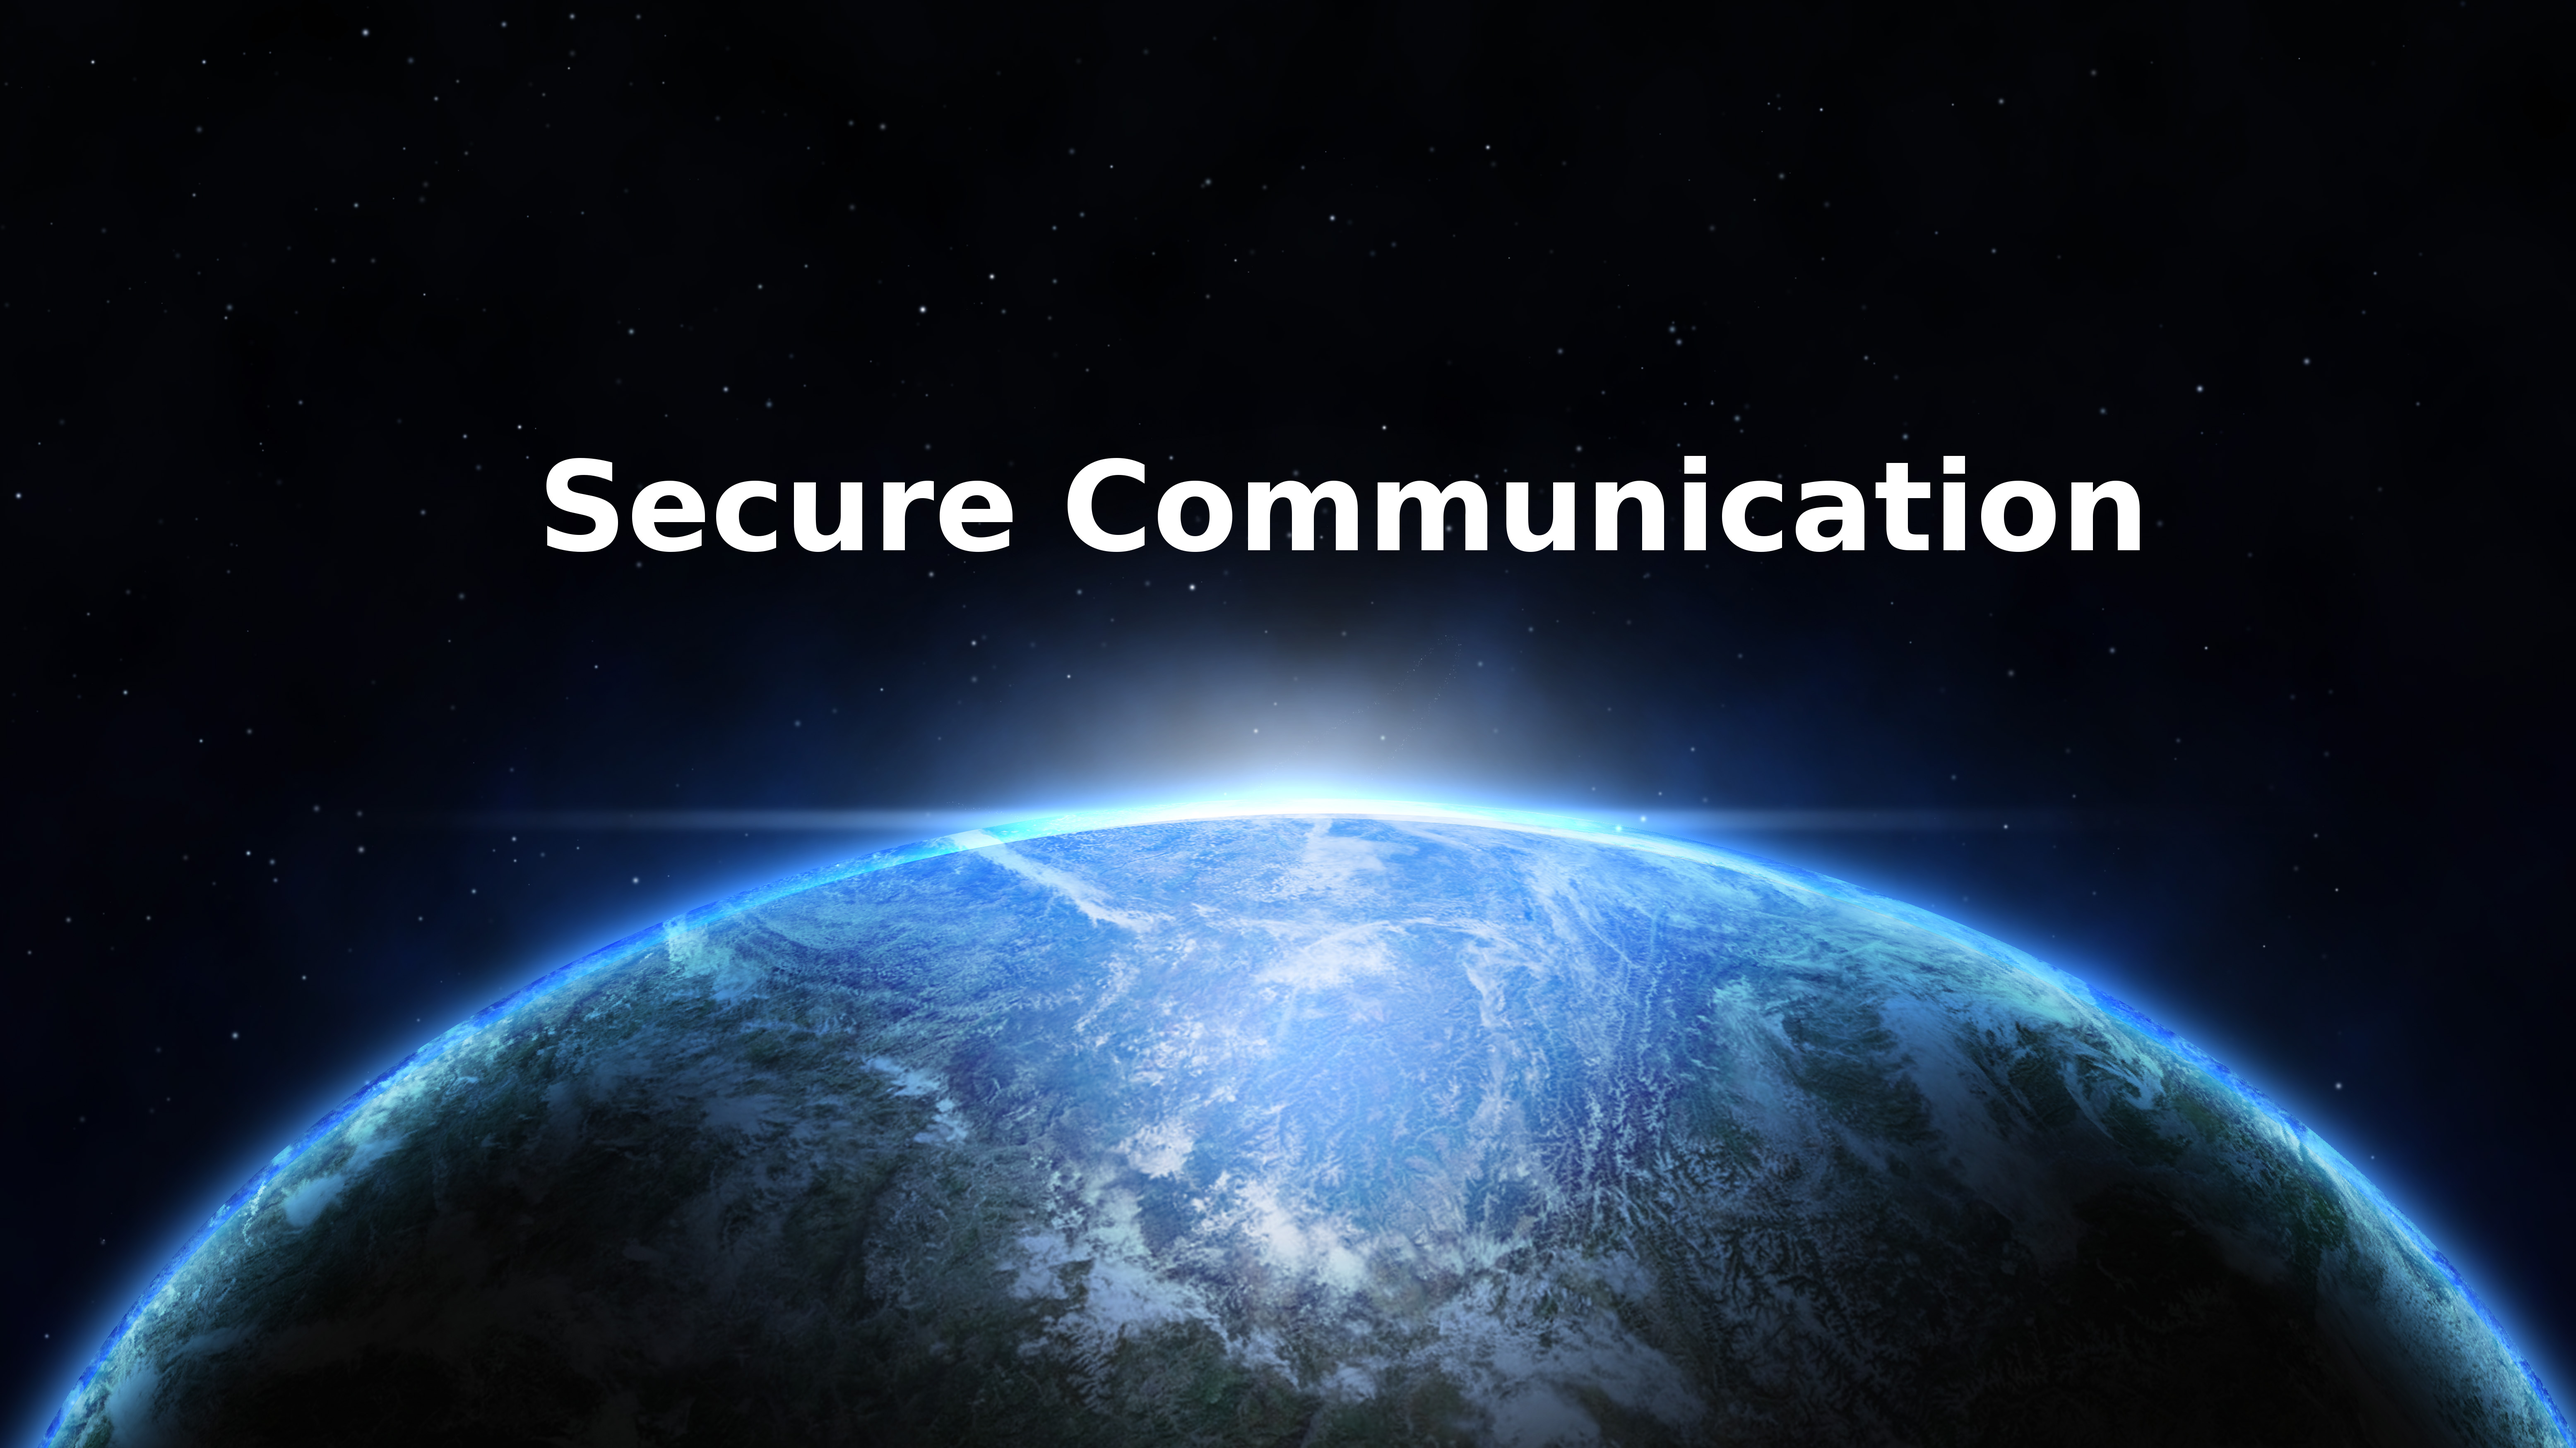
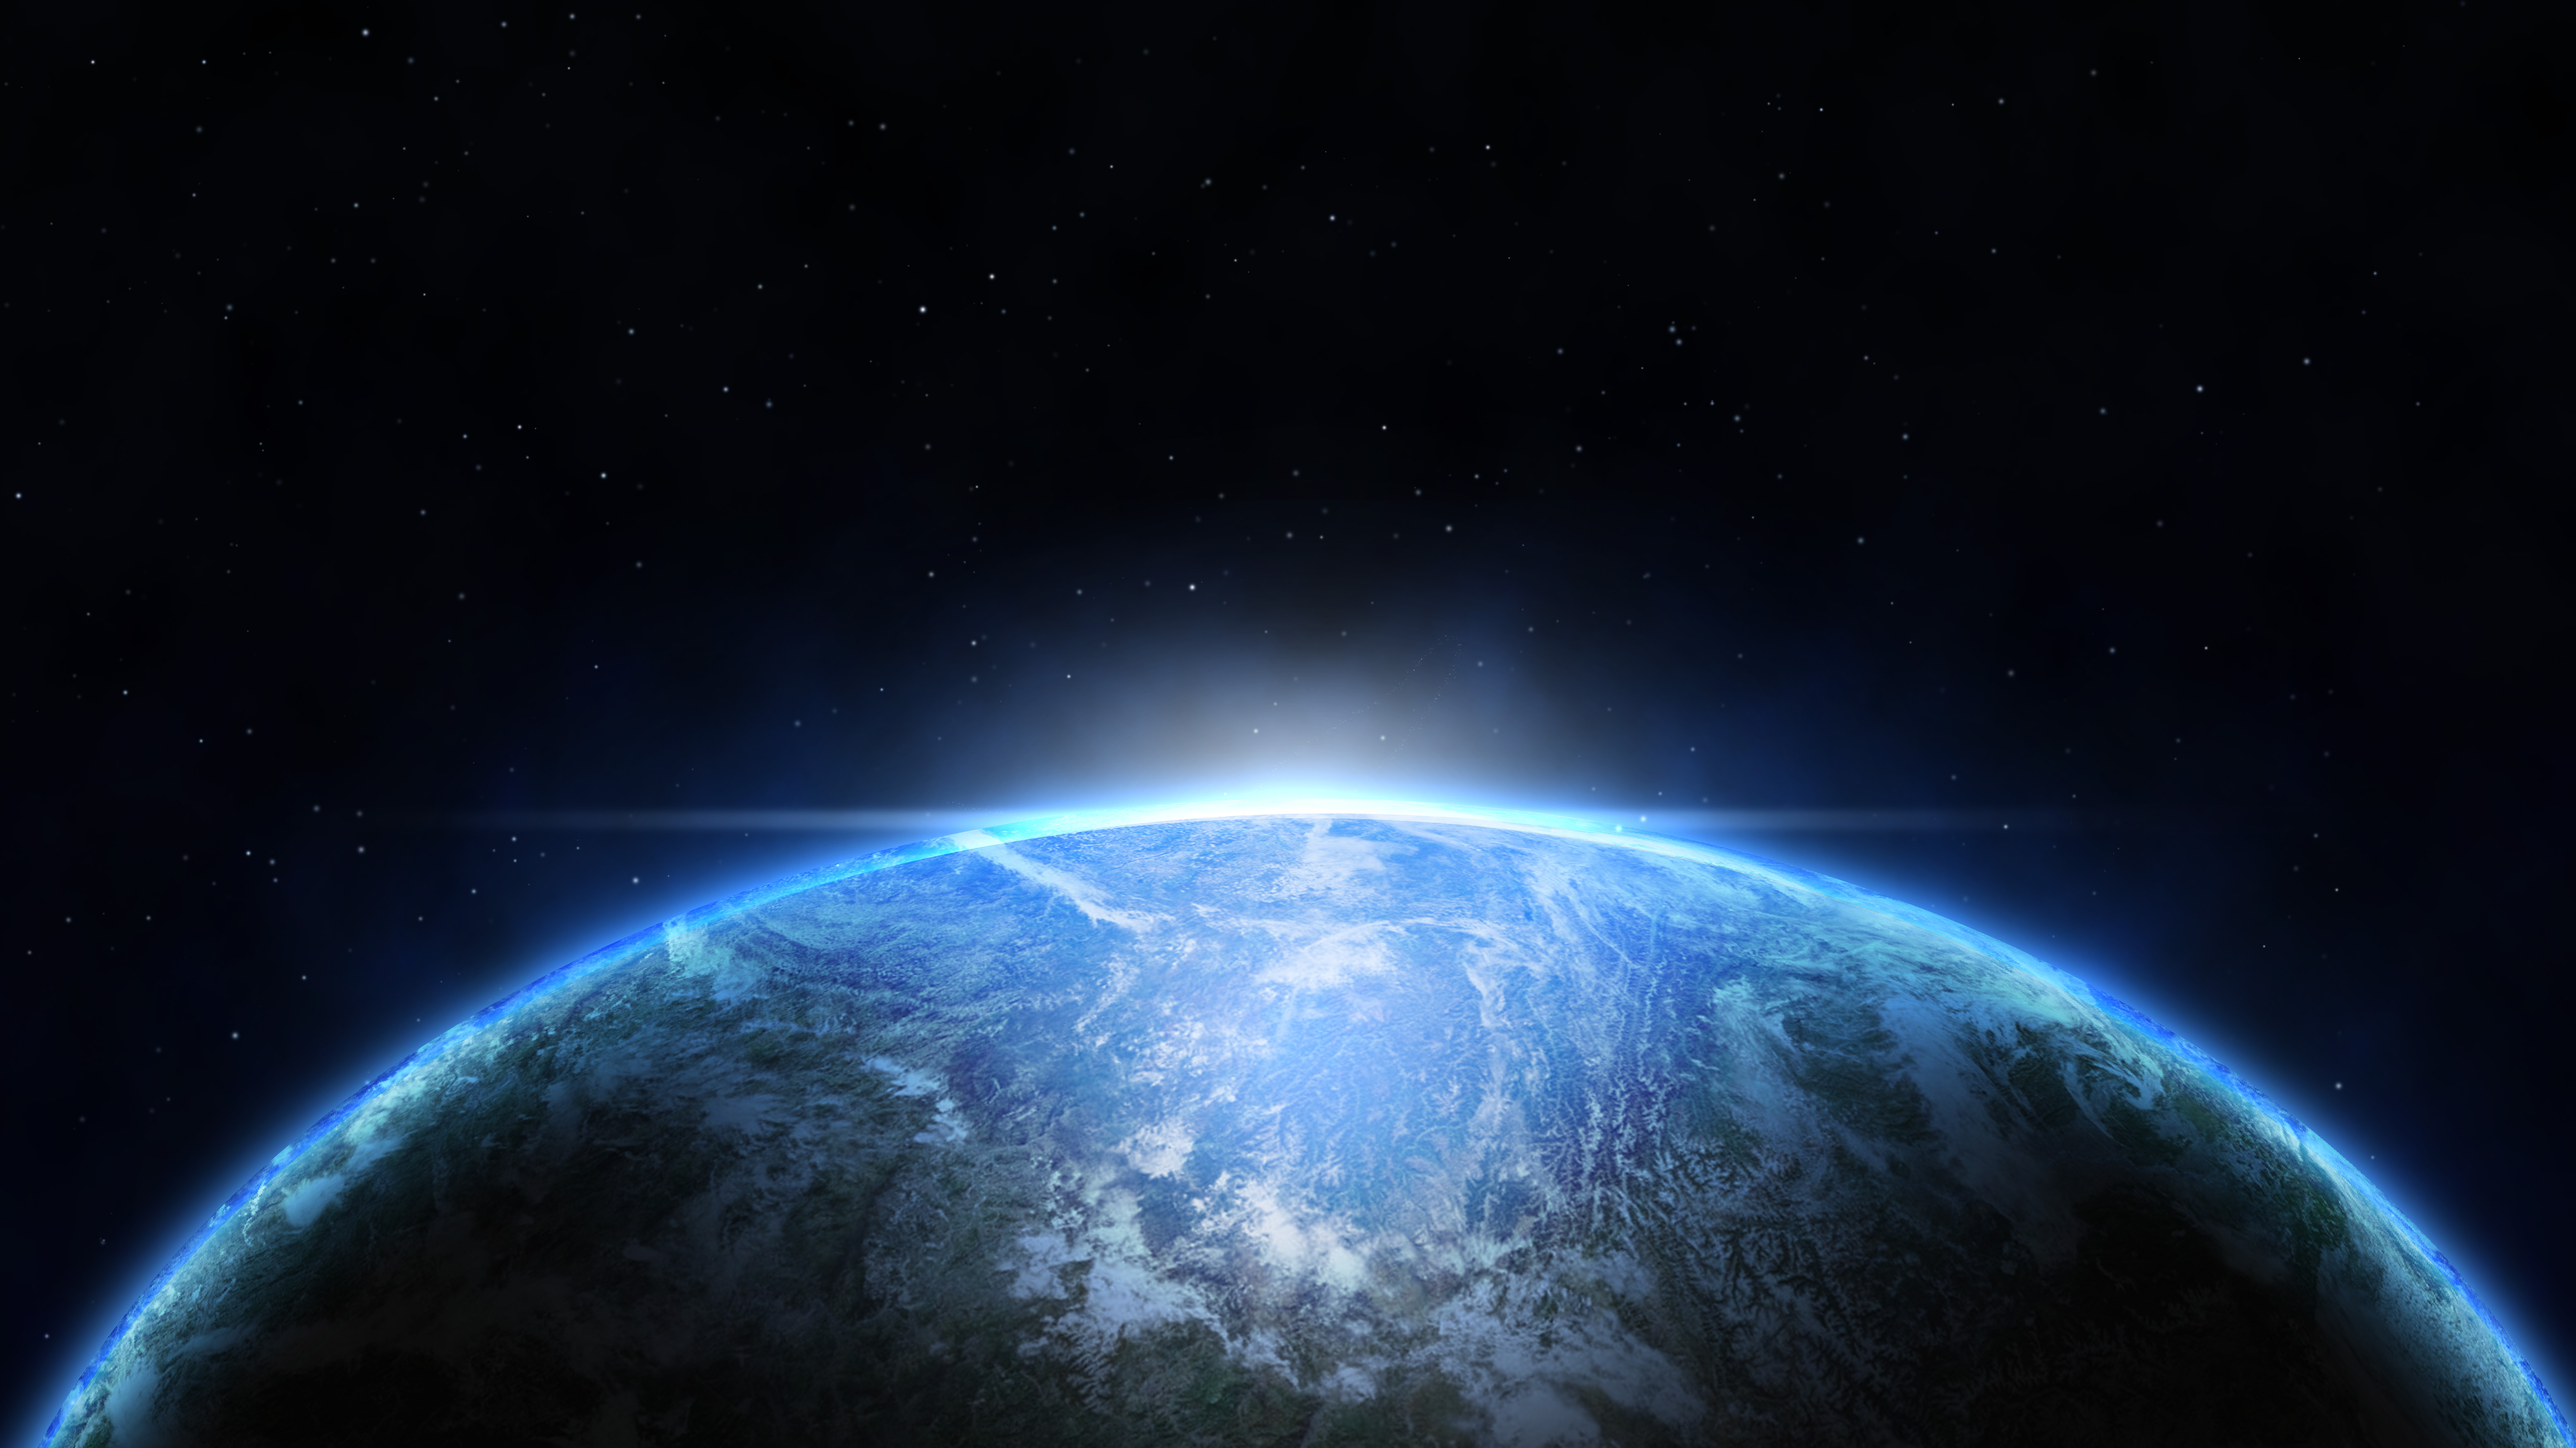
Overlay text using CSS

Changed region(s): [[0.187, 0.3114, 0.8417, 0.4049]]

diff --git a/client/app/features/auth/login.html b/client/app/features/auth/login.html
@@ -31,8 +31,10 @@
 <div class="container-fluid">
   <div class="row">
     <div class="col-xs-12 no-padding">
-      <img class="bannerImage" src="../../assets/banner2.jpg"/>
-      <!-- <h1 class="aboutBanner">Chat securely away from prying eyes</h1> -->
+      <div>
+        <img class="bannerImage" src="../../assets/banner2.jpg"/>
+        <h1 class="aboutBanner">Secure Communication</h1>
+      </div>
     </div>
   </div>
 

diff --git a/client/styles/styles.css b/client/styles/styles.css
@@ -16,7 +16,12 @@
   position: absolute;
   text-align: center;
   color: #fff;
-  margin-top: 0px;
+  z-index: 100;
+  display: block;
+  width: 100%;
+  top: 30%;
+  left: 0;
+  font-size: 70px;
 }
 .aboutHeader {
   font-weight: normal;
